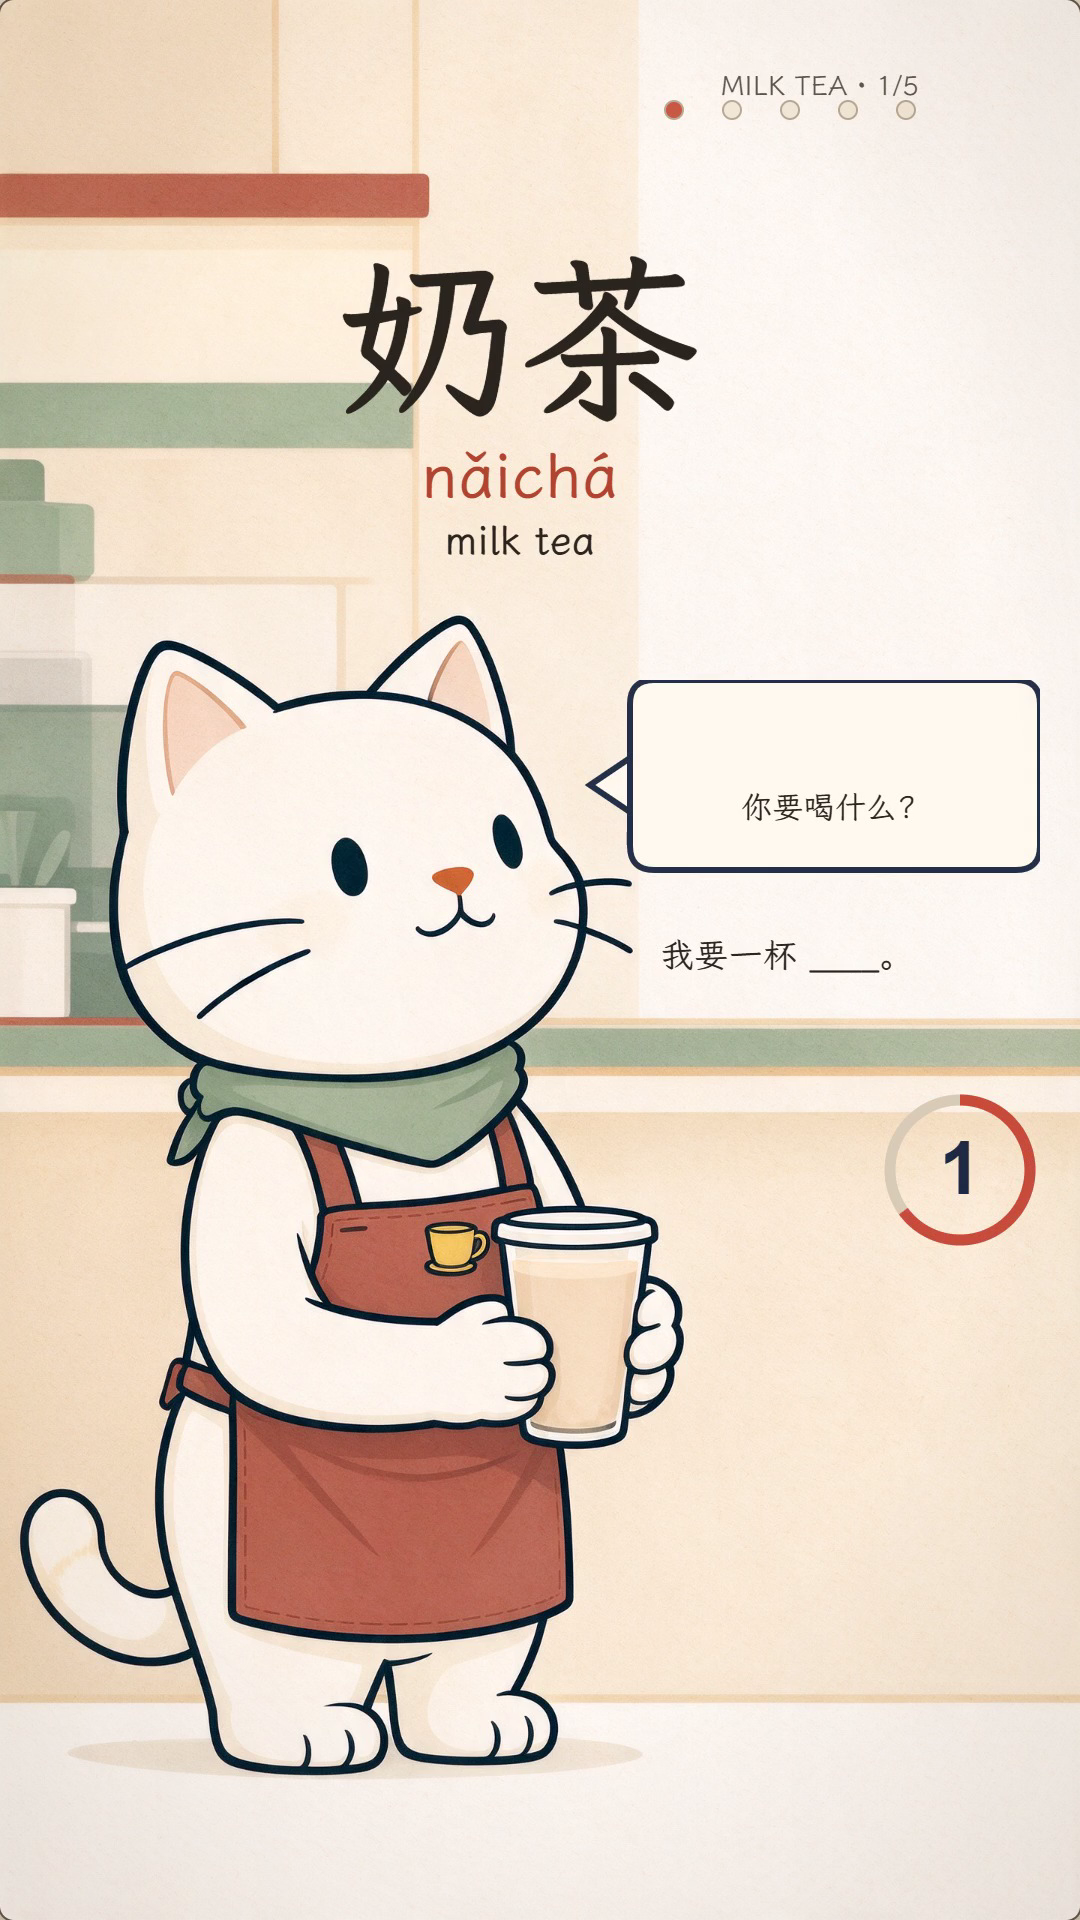
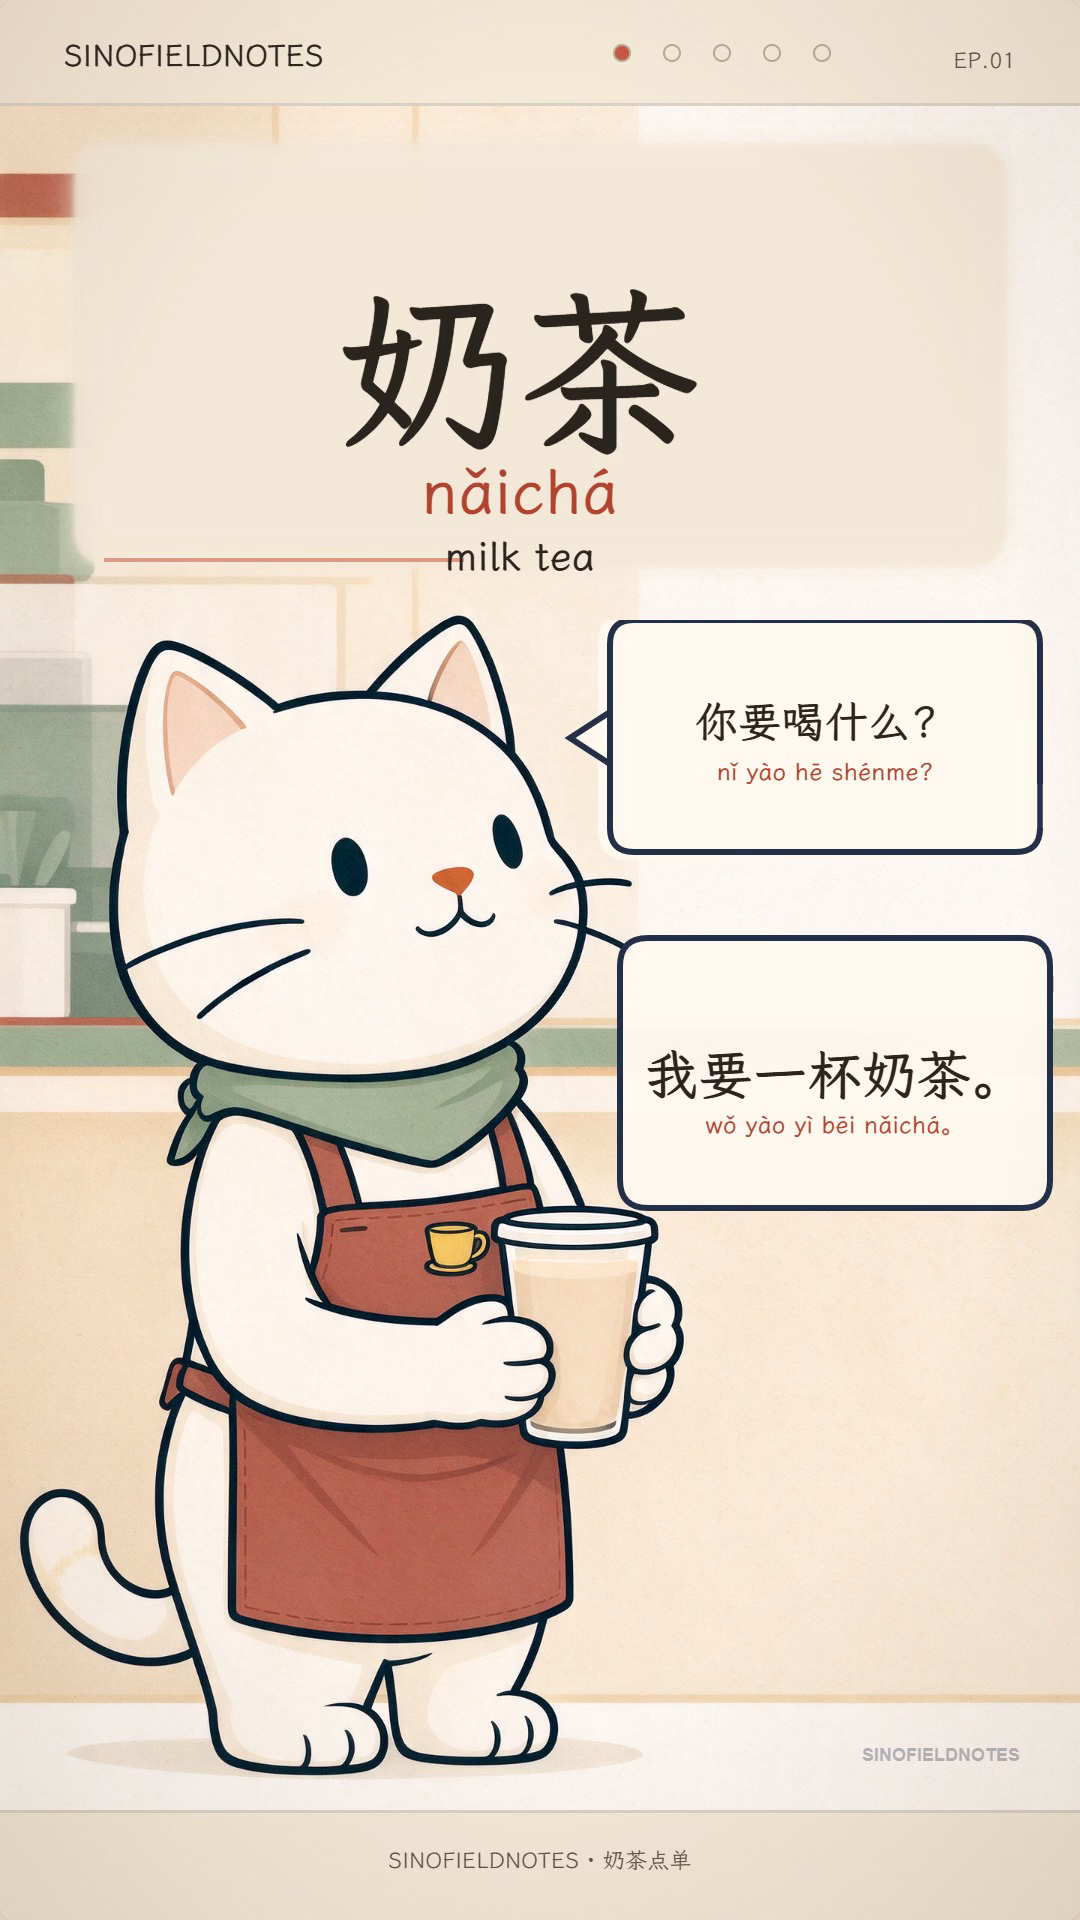
Refine p02 typography, pinyin, answer card and branding

diff --git a/production/experiments/milk-tea-v3/extras/word.js b/production/experiments/milk-tea-v3/extras/word.js
@@ -112,48 +112,8 @@
     const t3 = P.c(3);
     const { clamp } = PV;
 
-    // Full-bleed AI scene; text overlays sit in the clean right/top areas.
-    P.img(data.scene, 0, 0, 1080, 1920, { fit: 'cover', at: 0 });
-
-    P.canvas(650, 84, 340, 52, (ctx) => {
-      ctx.clearRect(0, 0, 340, 52);
-      for (let i = 0; i < 5; i++) {
-        ctx.beginPath();
-        ctx.arc(24 + i * 58, 26, 9, 0, Math.PI * 2);
-        ctx.fillStyle = i < data.index ? '#C95845' : '#F4E9D8';
-        ctx.fill();
-        ctx.lineWidth = 2;
-        ctx.strokeStyle = '#B9AA96';
-        ctx.stroke();
-      }
-    });
-
-    P.text('MILK TEA · ' + data.index + '/5', {
-      x: 820, y: 66, w: 360, align: 'c', size: 27, color: 'soft', at: t0,
-    });
-
-    P.text(data.hanzi, {
-      x: 520, y: 205, w: 860, align: 'c', size: 180, color: 'ink', weight: 700, at: t0, cps: 8,
-    });
-    P.text(data.pinyin, {
-      x: 520, y: 430, w: 860, align: 'c', size: 62, color: 'red', weight: 600, at: t0 + 0.15, cps: 8,
-    });
-    P.text(data.meaning, {
-      x: 520, y: 510, w: 860, align: 'c', size: 40, color: 'ink', weight: 600, at: t0 + 0.3, mode: 'fade',
-    });
-
-    // Question bubble in the right-hand clean area. Drawn on a canvas, because
-    // P.img lives in the HTML layer and would cover an SVG P.box.
-    P.canvas(580, 680, 460, 220, (ctx, lt) => {
-      ctx.clearRect(0, 0, 460, 220);
-      if (lt < t1 + 0.15) return;
-      const k = Math.min(1, (lt - (t1 + 0.15)) / 0.25);
-      ctx.globalAlpha = k;
-      ctx.fillStyle = '#FFF9EF';
-      ctx.strokeStyle = '#22304A';
-      ctx.lineWidth = 6;
+    const rr = (ctx, x, y, w, h, r) => {
       ctx.beginPath();
-      const x = 50, y = 0, w = 410, h = 190, r = 24;
       ctx.moveTo(x + r, y);
       ctx.lineTo(x + w - r, y);
       ctx.quadraticCurveTo(x + w, y, x + w, y + r);
@@ -164,29 +124,145 @@
       ctx.lineTo(x, y + r);
       ctx.quadraticCurveTo(x, y, x + r, y);
       ctx.closePath();
+    };
+
+    P.img(data.scene, 0, 0, 1080, 1920, { fit: 'cover', at: 0 });
+
+    // Small corner watermark; keep it out of the character's face.
+    P.canvas(720, 1738, 310, 36, (ctx) => {
+      ctx.clearRect(0, 0, 310, 36);
+      ctx.globalAlpha = 0.32;
+      ctx.fillStyle = '#22304A';
+      ctx.font = '700 18px Arial';
+      ctx.textAlign = 'right';
+      ctx.textBaseline = 'middle';
+      ctx.fillText('SINOFIELDNOTES', 300, 18);
+      ctx.globalAlpha = 1;
+    });
+
+    // Top and bottom channel strips.
+    P.canvas(0, 0, 1080, 106, (ctx) => {
+      ctx.clearRect(0, 0, 1080, 106);
+      ctx.fillStyle = 'rgba(244,233,216,.94)';
+      ctx.fillRect(0, 0, 1080, 106);
+      ctx.fillStyle = 'rgba(34,48,74,.12)';
+      ctx.fillRect(0, 103, 1080, 3);
+    });
+    P.canvas(0, 1810, 1080, 110, (ctx) => {
+      ctx.clearRect(0, 0, 1080, 110);
+      ctx.fillStyle = 'rgba(244,233,216,.94)';
+      ctx.fillRect(0, 0, 1080, 110);
+      ctx.fillStyle = 'rgba(34,48,74,.12)';
+      ctx.fillRect(0, 0, 1080, 3);
+    });
+
+    P.text('SINOFIELDNOTES', {
+      x: 64, y: 34, w: 620, align: 'l', size: 30, color: 'ink', weight: 700, at: t0,
+    });
+    P.text('EP.01', {
+      x: 1016, y: 44, w: 160, align: 'r', size: 22, color: 'soft', at: t0,
+    });
+    P.canvas(600, 30, 280, 46, (ctx) => {
+      ctx.clearRect(0, 0, 280, 46);
+      for (let i = 0; i < 5; i++) {
+        ctx.beginPath();
+        ctx.arc(22 + i * 50, 23, 8, 0, Math.PI * 2);
+        ctx.fillStyle = i < data.index ? '#C95845' : '#F4E9D8';
+        ctx.fill();
+        ctx.lineWidth = 2;
+        ctx.strokeStyle = '#B9AA96';
+        ctx.stroke();
+      }
+    });
+
+    // Erased/faded paper block behind word + pinyin + English.
+    P.canvas(40, 120, 1000, 470, (ctx) => {
+      ctx.clearRect(0, 0, 1000, 470);
+      ctx.save();
+      ctx.filter = 'blur(13px)';
+      ctx.fillStyle = 'rgba(244,233,216,.96)';
+      rr(ctx, 34, 24, 932, 422, 38);
+      ctx.fill();
+      ctx.restore();
+      ctx.save();
+      ctx.filter = 'blur(2.5px)';
+      ctx.fillStyle = 'rgba(244,233,216,.86)';
+      rr(ctx, 34, 24, 932, 422, 38);
+      ctx.fill();
+      ctx.restore();
+      ctx.fillStyle = 'rgba(201,88,69,.55)';
+      ctx.fillRect(64, 438, 360, 4);
+    });
+
+    P.text(data.hanzi, {
+      x: 520, y: 238, w: 860, align: 'c', size: 180, color: 'ink', weight: 700, at: t0, cps: 8,
+    });
+    P.text(data.pinyin, {
+      x: 520, y: 446, w: 860, align: 'c', size: 62, color: 'red', weight: 600, at: t0 + 0.15, cps: 8,
+    });
+    P.text(data.meaning, {
+      x: 520, y: 526, w: 860, align: 'c', size: 40, color: 'ink', weight: 600, at: t0 + 0.3, mode: 'fade',
+    });
+
+    // Opaque bubble mat + bubble; the mat kills any background line at the edge.
+    P.canvas(560, 620, 500, 280, (ctx, lt) => {
+      ctx.clearRect(0, 0, 500, 280);
+      if (lt < t1 + 0.15) return;
+      const k = Math.min(1, (lt - (t1 + 0.15)) / 0.25);
+      ctx.globalAlpha = k;
+      ctx.fillStyle = '#FFF9EF';
+      ctx.strokeStyle = '#22304A';
+      ctx.lineWidth = 6;
+      rr(ctx, 38, -6, 452, 246, 30);
+      ctx.fill();
+      rr(ctx, 50, 0, 430, 232, 24);
       ctx.fill();
       ctx.stroke();
       ctx.beginPath();
-      ctx.moveTo(50, 78);
-      ctx.lineTo(10, 105);
-      ctx.lineTo(50, 132);
+      ctx.moveTo(50, 92);
+      ctx.lineTo(10, 118);
+      ctx.lineTo(50, 144);
       ctx.closePath();
       ctx.fill();
       ctx.stroke();
       ctx.globalAlpha = 1;
     });
     P.text(data.question, {
-      x: 835, y: 785, w: 350, align: 'c', size: 31, color: 'ink', at: t1 + 0.4, cps: 10,
+      x: 825, y: 690, w: 430, align: 'c', size: 43, color: 'ink', weight: 600, at: t1 + 0.4, cps: 10,
+    });
+    P.text(data.questionPinyin, {
+      x: 825, y: 754, w: 430, align: 'c', size: 24, color: 'red', weight: 600, at: t1 + 0.5, mode: 'fade',
     });
 
-    P.text(data.answerLine, {
-      x: 660, y: 930, w: 380, align: 'l', size: 34, color: 'ink', at: t1 + 0.4, cps: 10,
+    // Answer card, centre-right and slightly lower.
+    P.canvas(610, 930, 450, 290, (ctx) => {
+      ctx.clearRect(0, 0, 450, 290);
+      ctx.fillStyle = 'rgba(255,249,239,.97)';
+      ctx.strokeStyle = '#22304A';
+      ctx.lineWidth = 6;
+      rr(ctx, 10, 8, 430, 270, 28);
+      ctx.fill();
+      ctx.stroke();
+    });
+    const blankA = P.text(data.answerLine, {
+      x: 835, y: 1035, w: 420, align: 'c', size: 54, color: 'ink', weight: 700, at: t1 + 0.4, cps: 10,
+    });
+    const blankP = P.text(data.answerPinyinBlank, {
+      x: 835, y: 1107, w: 420, align: 'c', size: 24, color: 'red', weight: 600, at: t1 + 0.5, mode: 'fade',
+    });
+    blankA.hide(t2, 0.18);
+    blankP.hide(t2, 0.18);
+    P.text(data.fullAnswer, {
+      x: 835, y: 1035, w: 420, align: 'c', size: 54, color: 'ink', weight: 700, at: t2, cps: 10,
+    });
+    P.text(data.answerPinyin, {
+      x: 835, y: 1107, w: 420, align: 'c', size: 24, color: 'red', weight: 600, at: t2 + 0.08, mode: 'fade',
     });
 
     const qEnd = P.ce(1);
     const aStart = P.c(2);
-    P.canvas(870, 1080, 180, 180, (ctx, lt) => {
-      ctx.clearRect(0, 0, 180, 180);
+    P.canvas(880, 1280, 190, 190, (ctx, lt) => {
+      ctx.clearRect(0, 0, 190, 190);
       if (lt < qEnd || lt > aStart) return;
       const total = Math.max(0.01, aStart - qEnd);
       const remain = Math.max(0, aStart - lt);
@@ -194,32 +270,31 @@
       ctx.lineWidth = 11;
       ctx.strokeStyle = '#D8CBB8';
       ctx.beginPath();
-      ctx.arc(90, 90, 70, 0, Math.PI * 2);
+      ctx.arc(95, 95, 72, 0, Math.PI * 2);
       ctx.stroke();
       ctx.strokeStyle = '#C94C3B';
       ctx.beginPath();
-      ctx.arc(90, 90, 70, -Math.PI / 2, -Math.PI / 2 + Math.PI * 2 * frac);
+      ctx.arc(95, 95, 72, -Math.PI / 2, -Math.PI / 2 + Math.PI * 2 * frac);
       ctx.stroke();
       ctx.fillStyle = '#1F2A44';
-      ctx.font = '700 74px Arial';
+      ctx.font = '700 76px Arial';
       ctx.textAlign = 'center';
       ctx.textBaseline = 'middle';
-      ctx.fillText(String(Math.ceil(remain)), 90, 94);
+      ctx.fillText(String(Math.ceil(remain)), 95, 99);
     });
 
-    P.text(data.answer, {
-      x: 840, y: 1275, w: 360, align: 'c', size: 92, color: 'green', weight: 700, at: t2, cps: 8,
-    });
-    P.text('say it', {
-      x: 840, y: 1375, w: 360, align: 'c', size: 27, color: 'soft', at: t2 + 0.2, mode: 'fade',
-    });
     if (data.reward) {
       P.text('★', {
-        x: 728, y: 1460, w: 54, align: 'c', size: 28, color: 'orange', at: t3, mode: 'fade',
+        x: 760, y: 1510, w: 54, align: 'c', size: 28, color: 'orange', at: t3, mode: 'fade',
       });
       P.text(data.reward, {
-        x: 860, y: 1460, w: 290, align: 'c', size: 29, color: 'red', weight: 700, at: t3, mode: 'fade',
+        x: 890, y: 1510, w: 300, align: 'c', size: 29, color: 'red', weight: 700, at: t3, mode: 'fade',
       });
     }
+
+    P.text('SINOFIELDNOTES · 奶茶点单', {
+      x: 540, y: 1844, w: 900, align: 'c', size: 22, color: 'soft', at: 0, mode: 'fade',
+    });
   };
+
 })(typeof window !== 'undefined' ? window : globalThis);

diff --git a/production/experiments/milk-tea-v3/pages-portrait/p02.js b/production/experiments/milk-tea-v3/pages-portrait/p02.js
@@ -6,8 +6,11 @@ ENGINE.visual('p02', (P) => {
     pinyin: 'nǎichá',
     meaning: 'milk tea',
     question: '你要喝什么？',
+    questionPinyin: 'nǐ yào hē shénme?',
     answerLine: '我要一杯 ____。',
-    answer: '奶茶',
+    answerPinyinBlank: 'wǒ yào yì bēi ____。',
+    fullAnswer: '我要一杯奶茶。',
+    answerPinyin: 'wǒ yào yì bēi nǎichá。',
     reward: '真棒！',
   });
 });
